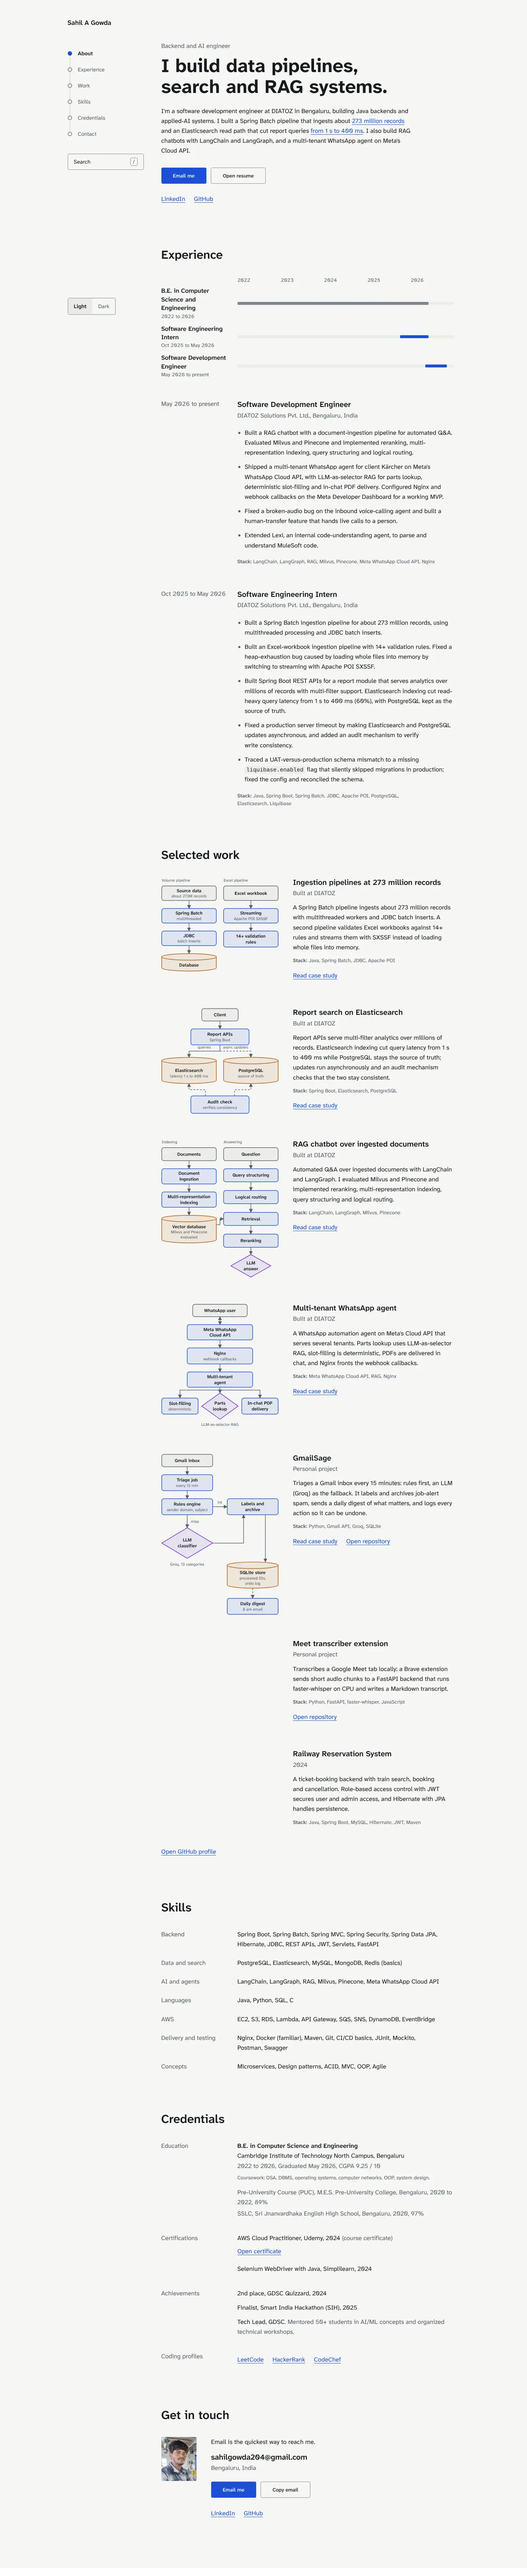
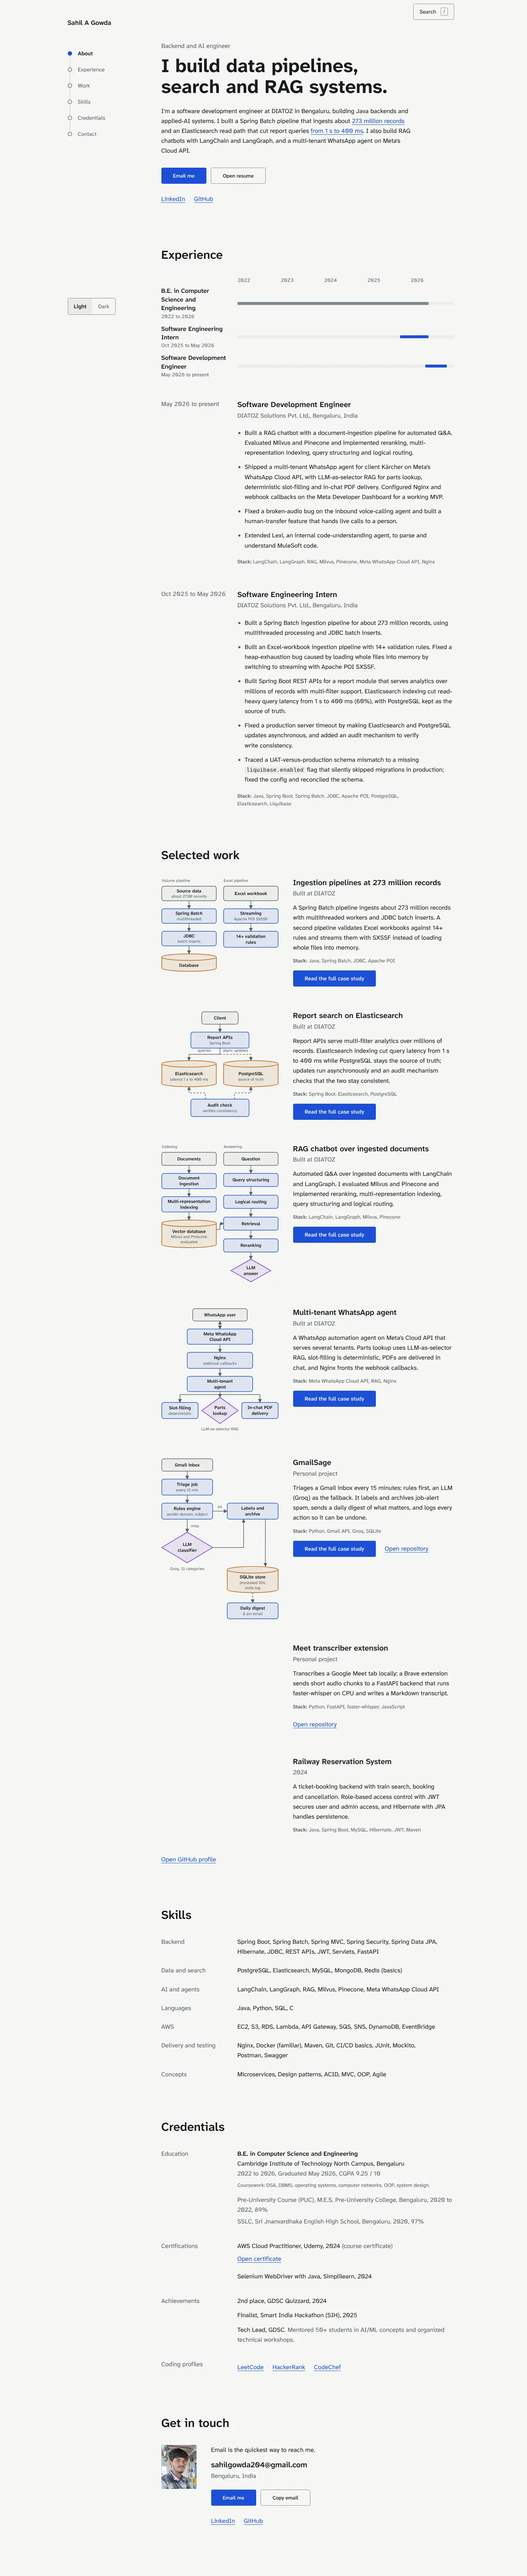
docs: sources for the new case-study content, design revision, measurements, fresh screenshots
- SOURCES.md: where each new line comes from (the GmailSage blockers and
  steps cite file and line or commit), and the five statements corrected.
- DESIGN_PLAN.md: a revision note, because this change overrides three
  rules in the plan (no ambient motion, no shadows, search in the rail).
- after/EVIDENCE.md: cost, Lighthouse (flat, software WebGL, and a phone
  bring-up measured with the CPU slowed 4x), 64 axe runs with 0 violations,
  contrast of 252 rendered 3D labels (worst 4.56:1), keyboard, fallbacks,
  and the open items for Sahil updated.
- README: the new data fields, the build-time check and the 3D chunk.
- Screenshots retaken: home at three widths in both themes (reduced motion,
  so no dot is caught mid-flight), the five case studies, search, and new
  close-ups of the 3D scene.

Claude-Session: https://claude.ai/code/session_01BAe9Xcf4g5TDwPVbYsfmix

diff --git a/docs/v2/after/EVIDENCE.md b/docs/v2/after/EVIDENCE.md
@@ -87,13 +87,48 @@ All pass on the final build: skip link first; rail and menu links land on the he
 
 Beyond the brief (Phase 0): the phone menu no longer covers headings and has a name, a skip link exists, contrast passes, tap targets are 44 px, the portrait is 29 kB as JPEG, or 9 kB as WebP on most screens, instead of 218 kB, and lint is clean outside one shadcn file. The phone number is no longer on the page, but it is still in the PDF.
 
+## Update, 9 October: case-study pages, 3D diagrams, search position
+
+Asked for after the first review (the changes are listed in the pull request and in the revision note at the end of [`../DESIGN_PLAN.md`](../DESIGN_PLAN.md)). This section holds the measurements. Same limits as above: local only, software WebGL only.
+
+**Cost.** Main JavaScript 281.4 to 284.6 kB (92.0 to 93.0 kB gzip), CSS 21.2 to 23.8 kB (5.3 to 5.8 kB gzip). three.js and the scene are one chunk, `Flow3D-*.js`: 608.8 kB, 156.3 kB gzip, 128.8 kB brotli. It is requested only on a case-study page, when the diagram is within 400 px of the viewport and the browser is idle, and never on the home page. One more runtime dependency (`three`) and one more dev dependency (`@types/three`); `package-lock.json` and `bun.lockb` were both regenerated, and `bun install --frozen-lockfile` passes.
+
+**Lighthouse, median of 3** (the static server with brotli and the `vercel.json` cache headers; the Phase 5 method):
+
+| Page | Form | Perf | A11y | BP | SEO | FCP | LCP | TBT | CLS | Transfer |
+|---|---|---|---|---|---|---|---|---|---|---|
+| Home | Mobile | 99 | 100 | 100 | 100 | 1.35 s | 1.80 s | 44 ms | 0 | 132 kB |
+| Home | Desktop | 100 | 100 | 100 | 100 | 0.32 s | 0.41 s | 0 ms | 0 | 132 kB |
+| GmailSage, flat diagram | Mobile | 99 | 100 | 100 | 100 | 1.45 s | 2.00 s | 0 ms | 0 | 141 kB |
+| GmailSage, flat diagram | Desktop | 100 | 100 | 100 | 100 | 0.35 s | 0.45 s | 0 ms | 0 | 141 kB |
+| Ingestion pipelines, flat diagram | Mobile | 99 | 100 | 100 | 100 | 1.45 s | 1.99 s | 0 ms | 0 | 141 kB |
+| Ingestion pipelines, flat diagram | Desktop | 100 | 100 | 100 | 100 | 0.35 s | 0.45 s | 0 ms | 0 | 141 kB |
+| GmailSage, software WebGL on | Mobile | 99 | 100 | 100 | 100 | 1.45 s | 1.99 s | 0 ms | 0 | 141 kB |
+| GmailSage, software WebGL on (the 3D chunk loads) | Desktop | 100 | 100 | 100 | 100 | 0.42 s | 0.55 s | 80 ms | 0 | 285 kB |
+
+The home page moved only a little against the Phase 5 numbers (mobile LCP 1.72 to 1.80 s, TBT 73 to 44 ms, transfer 130 to 132 kB; desktop LCP 0.39 to 0.41 s). Lighthouse starts Chrome with `--disable-gpu`, which blocks WebGL, so the "flat diagram" rows measure the fallback. The two "software WebGL on" rows turn it on (SwiftShader). On a phone the diagram starts below the fold, so the 3D chunk is not fetched during the load (141 kB, as with the flat diagram); on desktop the diagram is in view, so the chunk loads once the browser is idle (285 kB) and TBT is 80 ms (runs: 76, 80, 129).
+
+A first version also loaded the chunk 400 px ahead of the diagram on phones. With software WebGL on, Lighthouse mobile then gave performance 83 and TBT 639 ms, so on a phone the load now waits until the diagram is actually in view. To measure what that costs when it does happen, I scrolled a phone-sized page (412 x 823, device pixel ratio 2, CPU slowed 4x) to the diagram after the page had gone idle: the chunk arrived in about 0.2 s on this machine and the scene was ready 0.5 s after the scroll, with 2 long tasks (198 ms of blocking time in total, the longest 156 ms; median of 3). The software renderer mostly runs outside the page's main thread, so I read that figure as parsing and building the scene (a phone's CPU would do the same) with the drawing left to its GPU. That reading is my inference; I could not test on a phone.
+
+**Accessibility**
+- **axe-core: 0 violations** in 64 runs: the home page and the five case studies, each case study in three states (3D, 3D with a step selected, flat with a step selected), light and dark, at 1440 and 390 px. The only "needs review" item is colour contrast of text over SVG or WebGL, which is measured next.
+- **Rendered contrast of the 3D labels:** for 252 labels (five case studies, both themes, both widths) the pixels under each label were read from a screenshot of the scene with the labels hidden, and compared with the label's text colour (edge labels and captions on their 82% plate-coloured pill). The worst tenth of the pixels behind any label is 4.56:1; the threshold is 4.5:1. Two things were fixed on the way: node second lines use the foreground colour (the muted grey measured about 3:1 over the tinted faces), and the dark tint is a little lower (one label measured 4.40:1).
+- **Keyboard:** a case-study page has 28 tab stops in reading order (skip link, name, six section links, Light, Dark, Search, Back to work, the in-page links, the four 3D controls and the view toggle, six step buttons, two links at the end). All show a ring. The canvas is not a tab stop; turning, resetting, pausing and stepping work from the keyboard, and a status region announces the selected step.
+- **Motion:** after "Pause the flow" no frame is drawn (0 frames in 1.5 s, against 57 while playing). Under reduced motion the page starts on the flat diagram, the home page has no dots, and the 3D view, if chosen, skips its intro and starts paused.
+- **Touch:** the canvas sets `touch-action: pan-y`, so a horizontal drag turns the diagram and a vertical swipe still scrolls the page.
+
+**Behaviour checks** (all pass): hover over a block gives a pointer cursor; clicking a block selects its step; step buttons set `aria-pressed` and clear on a second press; Turn left and right, Reset view and dragging all change the view; the flat toggle removes the canvas, and a step still dims the rest of the flat diagram; the 3D view comes back. Fallbacks, each with a clean console: no WebGL (flat diagram, says why, no 3D controls), a lost context (flat diagram, canvas removed), reduced motion (flat first, opt in to 3D), and a chunk that fails to load (flat diagram and the steps still work; the console shows the failed request and the page's own "The 3D view could not be loaded" error). Search finds the new content (`invalid_scope`, `heap`, `timeout`, `List-Unsubscribe`) and highlights it on the page. On the home page the dots start when a diagram is in view and stop by themselves (0 moving at 8 s). The Search button's right edge matches the content edge at 1024, 1280 and 1440 px, and switching Light and Dark recolours a live 3D scene without a reload.
+
+**What I could not test:** a real GPU, a real phone (frame rate, heat and battery under the 3D view), and the Vercel preview, which is also the first build with the new dependency.
+
 ## Open items for Sahil
 
 1. **Resume PDF.** `public/Sahil-A-Gowda-Resume.pdf` is the file you sent. It still says "B.E. ... (Expected)" and "AWS Certified Cloud Practitioner (2024)", and it contains your phone number (+91-9945886311), so publishing the PDF publishes the number. Send a corrected PDF, or tell me to edit it.
 2. **Facts I could not confirm.** PUC 89%, SSLC 97% and the school names and years (from the old site); the Google Drive certificate link; LeetCode, HackerRank and CodeChef figures (the site shows links only, because those pages were unreachable). LinkedIn, LeetCode, HackerRank, CodeChef and Drive could not be checked from here.
-3. **The DIATOZ case studies are thin by design.** They hold only what the resume and your Facts say. Send three to five lines per project (decisions and trade-offs, in your words, inside the confidentiality line) and they go into `src/data/caseStudies.ts`. Please also check that the RAG and WhatsApp diagrams show the standard order, not necessarily yours, and the Excel line: the site says "streaming with Apache POI SXSSF" (the resume says "streaming read"; SXSSF is POI's streaming writer).
-4. **GmailSage's README disagrees with its code.** The README says 12 categories, "80% hit" and 16 newsletter domains. The code has 13 categories and 13 newsletter domains, and nothing measures the 80%. The site follows the code.
-5. **Lockfiles.** I kept both and regenerated `bun.lockb` so it matches `package.json`. Tell me which one Vercel should use and I will remove the other.
+3. **The DIATOZ case studies hold only what the resume and your Facts say.** Each page now has places for "How I approached it" and "Blockers and how I got past them", but only these are filled: ingestion pipelines (one blocker, the heap), report search (two: the production timeout, then the audit mechanism), and nothing for the RAG chatbot and the WhatsApp agent, so that section is left out instead of padded. Send three to five lines per project in your words, inside the confidentiality line (what was hardest, what you tried that did not work, why you chose one thing over another) and they go into `src/data/caseStudies.ts`; I can write them in. Please also check that the RAG and WhatsApp diagrams and steps show the standard order, not necessarily yours, and the Excel line: the site says "streaming with Apache POI SXSSF" (the resume says "streaming read"; SXSSF is POI's streaming writer).
+4. **GmailSage's README disagrees with its code.** The README says 12 categories, "80% hit", 16 newsletter domains and a digest of `high` mail only. The code has 13 categories, 13 newsletter domains and a digest of high plus non-"other" medium mail, and nothing measures the 80%. The site follows the code. On 9 October I also corrected five statements on the GmailSage page that the code did not support (they are listed in `SOURCES.md`); for example "every action can be undone" now reads "archiving can be undone".
+5. **Lockfiles.** I kept both and regenerated both for the new `three` dependency. Tell me which one Vercel should use and I will remove the other.
 6. **Checks on the Vercel preview.** I could not open it. Please try `/projects/gmailsage` directly, `/resume.html` and the old PDF URL (both redirect to the new PDF), and read the build log's "Installing dependencies" line. Preview deployments send `noindex`, so Lighthouse SEO on a preview URL flags "blocked from indexing"; production will not.
 7. **A client name.** The experience bullet names the client because the resume does; the case-study pages do not. Remove it in `src/data/experience.ts` if you would rather not.
 8. **After the merge:** refresh the LinkedIn preview with LinkedIn Post Inspector (LinkedIn caches link previews), and check whether the Lovable project is still connected to this repository, since a connected project can push over `main`.
+9. **The 3D view on a real phone.** I could only test it with software WebGL. Open a case study on your phone and check that the diagram turns smoothly and the page still scrolls past it. If it stutters, tell me and I will start phones on the flat diagram (it is a one-line change in `FlowDiagram.tsx`).

diff --git a/docs/v2/SOURCES.md b/docs/v2/SOURCES.md
@@ -26,8 +26,16 @@ Rule from the brief: every title, date, number and claim traces to `resume-lates
 | Skills lists | Resume, plus FastAPI from the brief's positioning line and the Meet transcriber README, and JWT from the Railway project bullet |
 | Railway Reservation System, 2024, stack, RBAC with JWT | Resume |
 | Meet transcriber extension | Its README (Brave extension, FastAPI backend, faster-whisper on CPU, Markdown transcript) |
-| GmailSage: every 15 minutes, daily 8 am digest, rules then Groq, 13 categories, safety layers, keep list, undo, SQLite store, nothing deleted | README and code of `SahilAGowda/GmailSage`, read on 7 October 2026 |
+| GmailSage: every 15 minutes, daily 8 am digest, rules then Groq, 13 categories, safety layers, keep list, undo, SQLite store, nothing deleted | README, code and commit history of `SahilAGowda/GmailSage` (6 commits, 17 to 24 September 2026), read on 7 and 9 October 2026. The two cron lines are `setup_cron.sh:6-7` |
 | GmailSage: 16 unit tests pass | Ran `python -m unittest test_rules` on 7 October 2026 |
 | GmailSage: README says "12 categories", "80% hit" and "16 newsletter domains" | Not used. The code has 13 categories and 13 newsletter domains, and nothing measures the 80% |
+| GmailSage blocker: `invalid_scope` on token refresh | Commit `57a9182` ("fix: gmail_auth scope mismatch invalid_scope on refresh", 18 September 2026) and the code comment at `gmail_auth.py:46-47`. Before it (commit `ade4ac1`) a dry run asked for read-only scopes and the real run for modify scopes, on one saved token. **check** that this matches what you remember; the repo does not say why the saved token's scopes were unknown |
+| GmailSage blocker: the network is not up when cron wakes | The comment at `gmail_auth.py:34` ("Laptop cron often wakes before the network is up (DNS failures in the log)"), the retry loop at `gmail_auth.py:33-42` (4 attempts, waits of 5, 10 and 20 seconds), and the exit when the network is down at `triage.py:129-132` |
+| GmailSage "Fail safe, then retry" | Gmail calls retry 3 times (`gmail_actions.py:7`), the Groq client has `max_retries=3` (`classifier.py:74`), a failed message is left unrecorded (`triage.py:153-181`), and the quoted words are from the comment at `classifier.py:9` |
+| GmailSage "Follow the data" steps | Cron lines `setup_cron.sh:6-7`; `in:inbox newer_than:2d`, at most 50 (`triage.py:29-30`); skip processed ids (`triage.py:149-151`); job-hunt subjects first (`rules_engine.py:91-93`); bad model output falls back to medium priority (`classifier.py:121-132`); the guard (`rules_engine.py:130-138`); label always, archive only low priority (`gmail_actions.py`); digest of high plus non-"other" medium for 24 hours (`store.py:118-128`), sent through the Gmail API (`digest.py:94`) |
+| GmailSage: statements corrected on 9 October | A re-read of the code against the site text found these overclaims, now fixed. "Every action can be undone": the undo command reverses archiving of low-priority mail only (`store.py:142-153`, `triage.py:212`). "`--dry-run` ... without touching the database": it still creates the tables and caches model answers, but it records no message as processed (`triage.py:169-172`). "Application mail wins" was listed under the final guard, but it is the first rule of the rules engine (`rules_engine.py:91-93`). "Rules classify most mail": nothing measures it (the code comment says "most job-alert spam"). The diagram edge "logs for undo" is now "records each message", because every handled message is written to the `processed` table that the undo command reads. The problem statement now follows the README's own tagline |
 | Architecture diagrams | Drawn only from the facts above. The RAG and WhatsApp diagrams show the standard order for those techniques (indexing before search, query structuring and routing before retrieval, reranking after). **check** that order is how you built them |
 | "Terms" definitions on two case studies | General meanings of the terms, not claims about the build |
+| Case-study "At a glance" blocks (When, My part, Scale) | DIATOZ studies: the resume bullets and dates (internship October 2025 to May 2026 for ingestion and report search; full-time since May 2026 for the RAG chatbot and WhatsApp agent) and the Facts. "My part" uses only the resume's own verbs (built, evaluated, implemented, shipped, configured, fixed, added). GmailSage: "September 2026" is the commit range of the public repository |
+| DIATOZ "Follow the data" steps and "Blockers" | Each step restates a sentence already in the case study, and the blockers are the three problems the resume and Facts name (the heap exhaustion, the production timeout, the audit mechanism). No symptom, cause or outcome is added beyond what they say. **check** the RAG and WhatsApp step order, as for their diagrams |
+| 3D and flat diagrams, and the moving dots | Drawn from the same node and edge data (`src/data/diagrams.ts`) as the flat diagrams on the home page. The 3D view adds no component and no arrow, only height, a camera and moving dots. The dots show the direction of flow, not volume or timing: their speed and count are decorative |

diff --git a/docs/v2/DESIGN_PLAN.md b/docs/v2/DESIGN_PLAN.md
@@ -472,9 +472,21 @@ Self-critique after the build, changes made before committing:
 
 ### Search, as built
 
-- A "Search" button sits under the nav in the rail (with a `/` hint) and next to "Menu" on phones. `/` opens it from anywhere except a text field.
+- A "Search" button sits under the nav in the rail (with a `/` hint) and next to "Menu" on phones. `/` opens it from anywhere except a text field. (Moved to the top right on desktop on 9 October, see the revision below.)
 - It is a native `<dialog>` loaded on demand: 2.7 kB gzipped, fetched when the button is hovered, focused or pressed. Focus is trapped, Esc and a click outside close it, and focus returns to the button.
 - Every word of the query has to appear in an entry. The index is built from the same `src/data` modules the pages render, including the case studies, so a result cannot disagree with its page. Results show the section name, a heading and a snippet with the hit marked.
 - Choosing a result goes to the page with `?q=` in the URL. The hits are painted on the page with the CSS Custom Highlight API instead of wrapping text in `<mark>`, so React never fights a changed text node. A browser without the API still gets the jump to the section. A small bar at the bottom says what is highlighted and has "Clear highlights"; Esc does the same.
 - Contrast: highlighted text is forced to the foreground colour, so a hit over a link or muted text still passes AA in both themes.
 - A term that is not on the site gets "No mention of “x” on this site." One letter gets "Type at least two letters."
+
+## Revision, 9 October 2026: case-study pages, live diagrams, search position
+
+Asked for by Sahil after the first review. It changes three rules in this plan, so it is written down here instead of left implicit.
+
+- **Motion.** "Nothing ambient or looping" no longer holds for diagrams.
+  - The five diagrams on the home page send one dot along each arrow, twice, when they scroll into view, and then stop (about five seconds; none under reduced motion).
+  - The diagrams on the case-study pages are a 3D scene in which dots keep travelling along the arrows. A "Pause the flow" button stops them, and while paused no frames are drawn at all. A visitor who asked for reduced motion (or data saving) starts on the flat diagram and can switch; so can anyone else, with "Show the flat diagram".
+- **Depth.** "No shadows" no longer holds inside the 3D scene: nodes have height, a contact shadow and a lit top face. The page around the scene is unchanged. The scene keeps the diagram language (box for a job, cylinder for a store, diamond for a model call, the same three colours) and is drawn from the same data as the flat diagrams, so it adds no component and no arrow.
+- **Search.** The button left the rail for the top right of the page: a strip at 1024 px and wider that stays at the top, has the page's own colour, and moves nothing. Phones keep it in the top bar.
+- **Case studies.** Each row on the home page ends in a "Read the full case study" button (and the title links there too). A case-study page now runs: the diagram with a step-by-step "Follow the data" list, the problem, constraints, how I approached it, blockers and how I got past them, results, stack. A section that has no sourced content is left out instead of padded.
+- **Cost.** three.js (about 157 kB gzipped) sits in its own chunk. It loads only on a case-study page, only when the diagram is within a screen of the viewport, and only once the browser is idle. The home page's JavaScript grew by about 1 kB gzipped.

diff --git a/README.md b/README.md
@@ -1,6 +1,6 @@
 # Sahil A Gowda: portfolio
 
-Source for [sahil-a-gowda-portfolio.vercel.app](https://sahil-a-gowda-portfolio.vercel.app). One page, five case studies, light and dark themes, and a search over everything on the site. Built with Vite, React 18, TypeScript, Tailwind CSS 3 and react-router. Deployed on Vercel.
+Source for [sahil-a-gowda-portfolio.vercel.app](https://sahil-a-gowda-portfolio.vercel.app). One page, five case studies with a 3D diagram each, light and dark themes, and a search over everything on the site. Built with Vite, React 18, TypeScript, Tailwind CSS 3, react-router and three.js (on the case-study pages only). Deployed on Vercel.
 
 ## Run it
 
@@ -21,11 +21,11 @@ All text lives in `src/data`. Components read from there, and nothing is repeate
 | `profile.ts` | Name, role, hero line, summary, page title and description, every outbound link, the resume link |
 | `experience.ts` | The DIATOZ roles and their bullets |
 | `projects.ts` | The project list. Set `caseStudy: true` once a page exists |
-| `caseStudies.ts` | The case-study pages: outcome, problem, constraints, decisions, results with their sources |
-| `diagrams.ts` | The architecture diagrams: nodes, edges and a layout for wide and narrow screens |
+| `caseStudies.ts` | The case-study pages: outcome, at a glance, problem, constraints, approach, the steps that walk through the diagram, blockers, results with their sources |
+| `diagrams.ts` | The architecture diagrams: nodes, edges (each names the two nodes it joins) and a layout for wide and narrow screens. The flat and the 3D view are both drawn from it |
 | `skills.ts`, `credentials.ts` | Skill groups; education, certifications, achievements and coding profiles |
 
-To add a case study, add the project to `projects.ts`, write its page in `caseStudies.ts`, optionally draw a diagram in `diagrams.ts`, and set `caseStudy: true`. The page, its links, the search and the sitemap pick it up.
+To add a case study, add the project to `projects.ts`, write its page in `caseStudies.ts`, optionally draw a diagram in `diagrams.ts`, and set `caseStudy: true`. The page, its links, the search and the sitemap pick it up. The build fails if an edge or a walkthrough step names a node that the diagram does not have.
 
 The rules the content follows: every number traces to the resume or a README, employer work stays at resume level, and a section without a source is left out. `docs/v2/SOURCES.md` lists where each claim comes from.
 
@@ -37,6 +37,7 @@ A small plugin in `vite.config.ts` fills the `{{placeholders}}` in `index.html` 
 
 ## Notes
 
+- The 3D diagram is `src/components/diagrams/flow3d`: a three.js scene built from the same node and edge data as the flat diagram, with the flat diagram as the fallback (no WebGL, reduced motion, data saving, a failed download). three.js sits in its own chunk that loads only on a case-study page, when the diagram is about to be seen; the home page never loads it. The constants at the top of `scene.ts` set the camera, heights and speeds.
 - Fonts are self-hosted from `@fontsource-variable`, Latin subset.
 - The theme follows the system setting until a visitor picks Light or Dark. An inline script in `index.html` applies it before first paint.
 - `docs/v2` holds the audit, the design plan, the evidence and the before and after screenshots from the 2026 rebuild.
